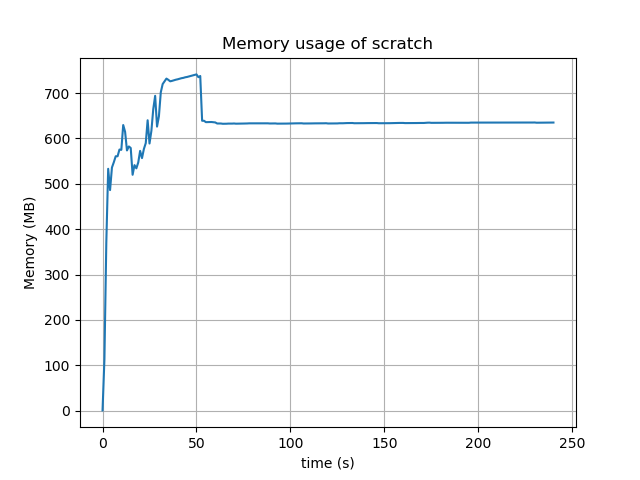
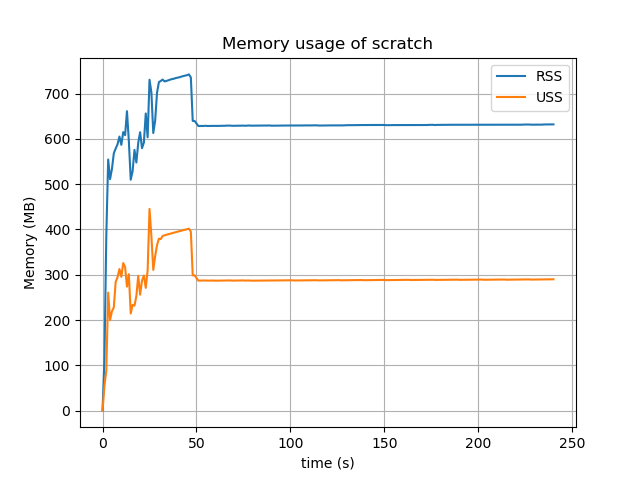
USS

diff --git a/memory.py b/memory.py
@@ -9,7 +9,7 @@ import subprocess
 import matplotlib
 import matplotlib.pyplot as plt
 
-runtime = 6 #  60 * 4
+runtime = 60 * 4
 
 def run_scratch(cmd):
 

diff --git a/README.md b/README.md
@@ -13,6 +13,9 @@ sudo apt install python3-matplotlib
 
 # Examples
 
+I believe now that USS gives a more accurate measure of memory utilised when summed for child processes than RSS, as 
+I ran 'free -m' while Scratch was running and after, and the difference was around 350MB, which is much closer to the USS value.
+
 ## Scratch3 Raspbian Version
 
 ![scratch3 memory](images/memory-scratch3.png)
